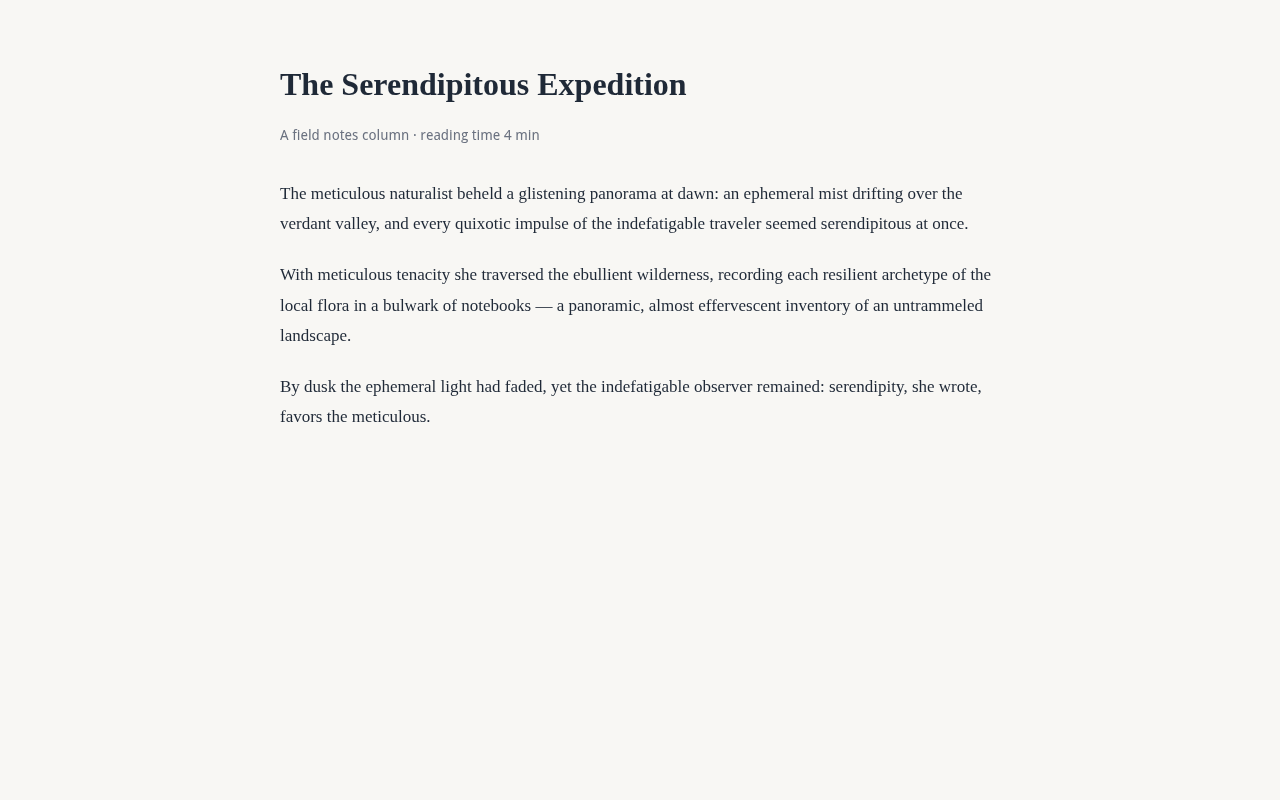
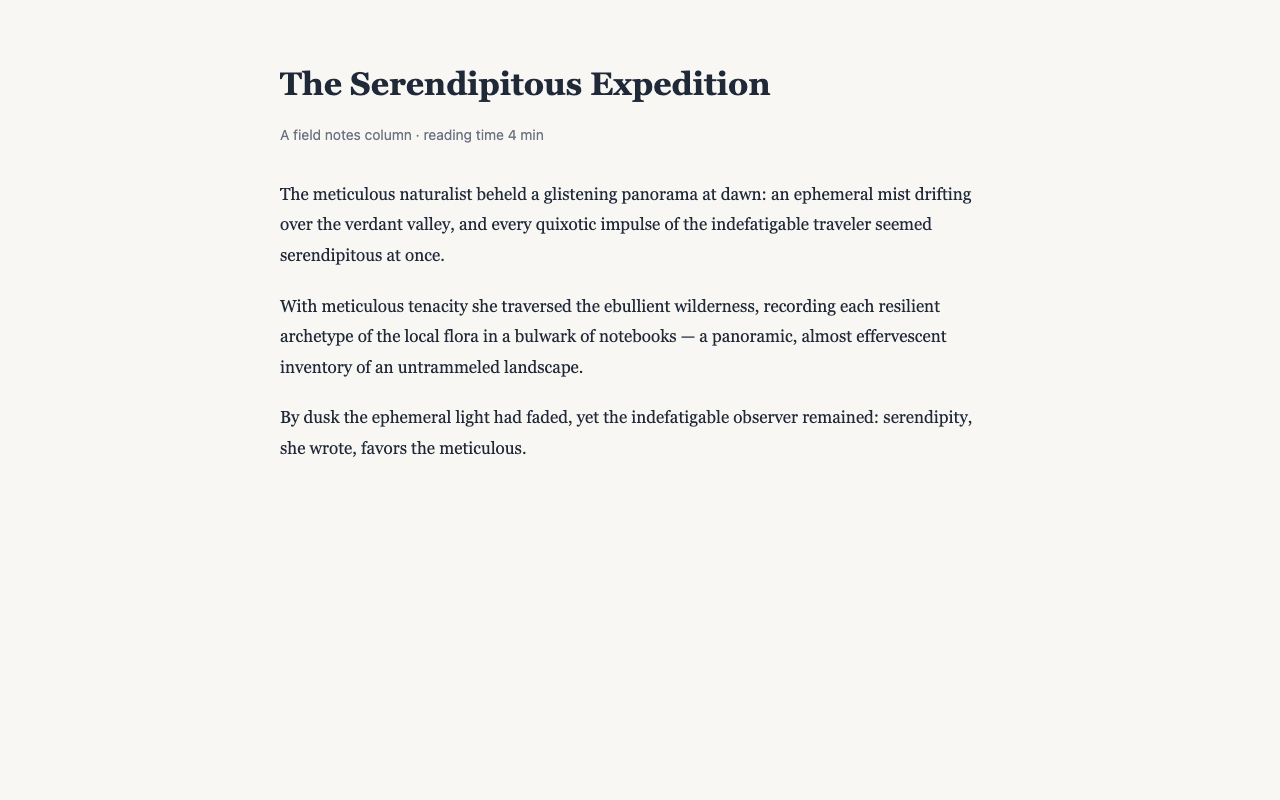
chore(release): v0.1.0 重打——SW idle keepalive 修复、图标重制、verify 工具链加固

Changed region(s): [[0.2188, 0.2188, 0.7812, 0.5938], [0.2188, 0.0938, 0.625, 0.125], [0.2188, 0.1562, 0.4375, 0.1875]]

diff --git a/packages/extension/src/lib/background-listener.ts b/packages/extension/src/lib/background-listener.ts
@@ -83,6 +83,9 @@ export function createBackgroundListener(deps: BackgroundListenerDeps) {
   const pushCoordinator = deps.pushCoordinator ?? new PushCoordinator({
     client: bbdcClient,
     repository: deps.repository,
+    // MV3 SW idle keepalive：纯 fetch 循环不会重置 SW 的 30s idle 计时器，
+    // 长词表推送到一半 SW 会被静默杀掉。穿插一次扩展 API 调用即可重置。
+    sleep: swKeepAliveSleep,
   });
   const settingsStorage = deps.settingsStorage ?? defaultSettingsStorage();
 
@@ -238,4 +241,27 @@ function defaultBbdcClient(): BackgroundBbdcClient {
 
 function defaultActionBadge(): ActionBadgeGateway {
   return chromeActionBadge;
+}
+
+/**
+ * 带扩展 API 心跳的 sleep：距上次心跳超过 20s 时调一次
+ * `chrome.runtime.getPlatformInfo()`（无副作用的扩展 API 调用会重置 MV3
+ * SW 的 idle 计时器），防止长推送循环被 idle kill。非扩展环境（单测）
+ * 退化为纯 sleep。
+ */
+const KEEPALIVE_INTERVAL = 20_000;
+let lastKeepalive = 0;
+
+export async function swKeepAliveSleep(milliseconds: number): Promise<void> {
+  const runtimeApi = (globalThis as { chrome?: { runtime?: { getPlatformInfo?: () => Promise<unknown> } } })
+    .chrome?.runtime;
+  if (runtimeApi?.getPlatformInfo && Date.now() - lastKeepalive > KEEPALIVE_INTERVAL) {
+    lastKeepalive = Date.now();
+    try {
+      await runtimeApi.getPlatformInfo();
+    } catch {
+      // 心跳失败不影响 sleep 语义
+    }
+  }
+  await new Promise((resolve) => setTimeout(resolve, milliseconds));
 }

diff --git a/CHANGELOG.md b/CHANGELOG.md
@@ -5,7 +5,7 @@ All notable changes to this project will be documented in this file.
 The format is based on [Keep a Changelog](https://keepachangelog.com/zh-CN/1.1.0/),
 and this project adheres to [Semantic Versioning](https://semver.org/lang/zh-CN/).
 
-## [0.1.0] - 2026-08-20
+## [0.1.0] - 2026-08-22
 
 ### 核心功能
 
@@ -65,6 +65,8 @@ and this project adheres to [Semantic Versioning](https://semver.org/lang/zh-CN/
 
 ### 修复
 
+- 长词表推送中途静默停滞：MV3 service worker 在纯 fetch 循环中不重置 30s idle 计时器会被浏览器杀掉；推送循环现穿插扩展 API 心跳（`chrome.runtime.getPlatformInfo`，间隔 20s）保活
+- 图标从 word-radar.svg 重新光栅化，提升各尺寸清晰度
 - bbdc addWord 恒 20000：`newwordlist` 必须是 `JSON.stringify(对象)`，数组包对象一律 20000 / `data_kind=exception_handler` / "未知错误"；逆向官方查词插件 v1.2.1（Chrome Web Store ID `cklfipcjofdnmdolnfngpmokdaejidim`）确认对象格式
 - raw.githubusercontent.com 采集失败：真因是旧标签未补注入（非 CSP 阻断），`TabsGateway.injectIntoTab(tabId)` 用 `chrome.scripting.executeScript` 从 manifest `content_scripts[].js` 读路径补注入并重试；manifest 扩权 `activeTab` + `scripting`
 - 推送状态轮询自启与结束后计数刷新
